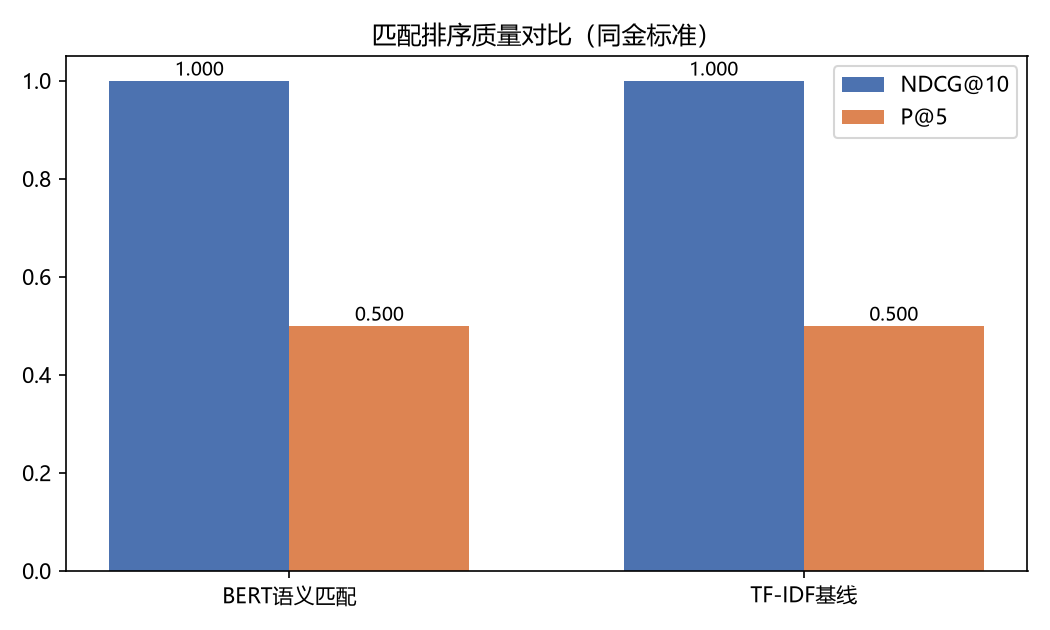
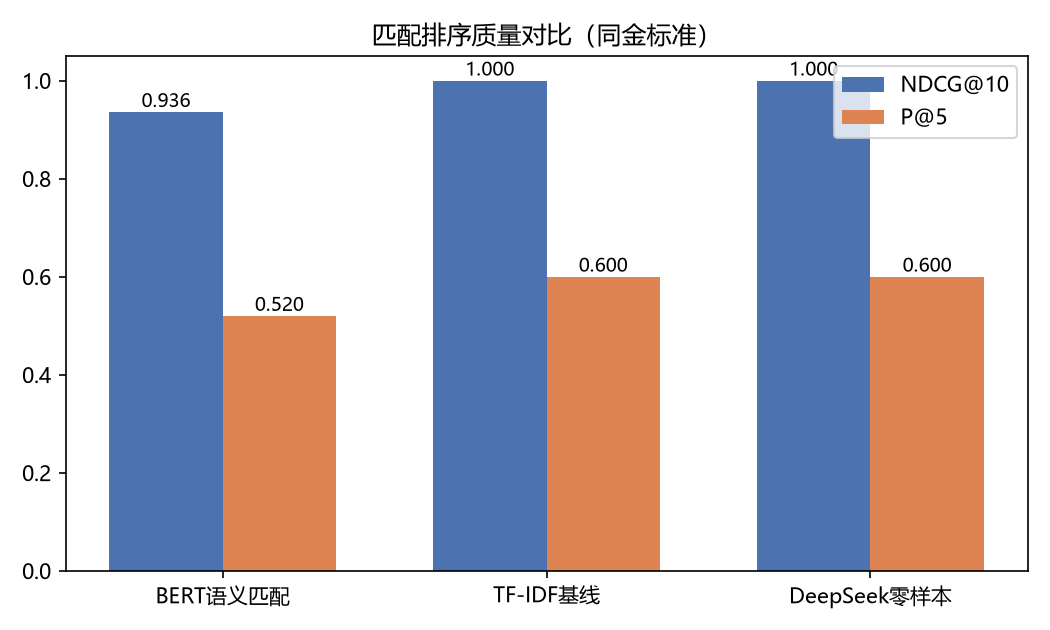
feat(M04): 真实三组对比实验跑通(DeepSeek真实调用63对0失败)
- 金标准规则升级: 剥通用职位词(工程师/开发/设计师...)后比核心语义,
  修'后端/前端开发工程师'共享'开发'误判同岗的假正例; 单测5条锁死
- scripts/seed_eval_corpus.py: 9简历×4岗位评测语料幂等灌库(63对金标准)
- fix(embedding): 权重已缓存时 local_files_only 离线加载——hub 联网探测
  在无代理环境超时导致误降级 TF-IDF(本次实验实抓); 缓存未命中才在线下载
- 实验结果(63对/5查询/15简历): BERT(未微调) NDCG@10=0.936 < TF-IDF 1.000
  = DeepSeek 1.000; 耗时 BERT 0.64s / TF-IDF 0.02s——未微调底座语义噪声
  大于词面匹配, 构成 Colab 领域微调的动机链; 产物刷新 docs/eval/
- 清理 dev 库测试残留 JD

diff --git a/backend/scripts/seed_eval_corpus.py b/backend/scripts/seed_eval_corpus.py
@@ -1,0 +1,98 @@
+"""评测语料生成：向当前业务库灌入 9 份简历 + 4 个岗位 JD（可重复执行，按文件名/标题幂等）。
+
+用途：给 M04 三组对比实验一份有区分度的演示语料（4 个 JD 查询、每 JD 2 正例）。
+用法：backend 目录下  python scripts/seed_eval_corpus.py
+"""
+import sys
+from io import BytesIO
+from pathlib import Path
+
+sys.path.insert(0, str(Path(__file__).resolve().parents[1]))
+
+from fastapi.testclient import TestClient
+
+from app.main import app
+
+RESUMES = [
+    # (文件名, [简历行]) —— 行文走规则抽取认得的显式字段格式
+    ("resume_zhangwei.docx", ["姓名：张伟", "硕士", "5年工作经验",
+                              "技能：Python FastAPI MySQL Redis Docker", "担任后端开发工程师", "任职于字节跳动科技有限公司"]),
+    ("resume_lina.docx", ["姓名：李娜", "本科", "4年工作经验",
+                          "技能：Python Django PostgreSQL Nginx", "担任后端开发工程师", "任职于美团科技有限公司"]),
+    ("resume_wangqiang.docx", ["姓名：王强", "大专", "3年工作经验",
+                               "技能：Java Spring MySQL Kafka", "担任Java开发工程师", "任职于东软集团股份有限公司"]),
+    ("resume_zhaomin.docx", ["姓名：赵敏", "本科", "3年工作经验",
+                             "技能：JavaScript React Vue Webpack", "担任前端开发工程师", "任职于腾讯科技有限公司"]),
+    ("resume_sunli.docx", ["姓名：孙丽", "本科", "2年工作经验",
+                           "技能：HTML CSS JavaScript Vite", "担任前端开发工程师", "任职于小米科技有限公司"]),
+    ("resume_zhoujie.docx", ["姓名：周杰", "硕士", "6年工作经验",
+                             "技能：Python SQL Tableau Pandas 机器学习", "担任数据分析师", "任职于招商银行"]),
+    ("resume_wujing.docx", ["姓名：吴静", "本科", "3年工作经验",
+                            "技能：Excel SQL Python 数据分析", "担任数据分析师", "任职于京东科技有限公司"]),
+    ("resume_zhengshuang.docx", ["姓名：郑爽", "大专", "2年工作经验",
+                                 "技能：Photoshop Illustrator CorelDRAW", "担任平面设计师", "任职于奥美广告有限公司"]),
+    ("resume_fenggang.docx", ["姓名：冯刚", "本科", "1年工作经验",
+                              "技能：Photoshop Sketch Figma", "担任UI设计师", "任职于字节跳动科技有限公司"]),
+]
+
+JDS = [
+    ("Python后端工程师", "负责后端服务设计与开发。要求：3年以上Python经验，熟悉FastAPI与MySQL，本科及以上，有Docker经验优先。"),
+    ("前端开发工程师", "负责Web前端页面开发。要求：2年以上经验，熟悉React或Vue，本科及以上。"),
+    ("数据分析师", "负责业务数据分析与报表。要求：熟悉SQL与Python，硕士优先。"),
+    ("平面设计师", "负责品牌与运营视觉设计。要求：精通Photoshop与Illustrator，大专及以上。"),
+]
+
+
+def make_docx(lines: list[str]) -> bytes:
+    import docx
+
+    buf = BytesIO()
+    d = docx.Document()
+    for line in lines:
+        d.add_paragraph(line)
+    d.save(buf)
+    return buf.getvalue()
+
+
+def main() -> int:
+    client = TestClient(app)
+
+    existing = {
+        r["file_name"]: r["resume_id"]
+        for r in client.get("/api/resumes?page=1&page_size=100").json()["data"]["items"]
+    }
+    jd_titles = {
+        j["title"]
+        for j in client.get("/api/jds?page=1&page_size=100").json()["data"]["items"]
+    }
+
+    for fname, lines in RESUMES:
+        if fname in existing:
+            print(f"[跳过] {fname} 已存在")
+            continue
+        r = client.post(
+            "/api/resumes/upload",
+            files={"file": (fname, make_docx(lines), "application/octet-stream")},
+        )
+        assert r.status_code == 202, r.text
+        rid = r.json()["data"]["resume_id"]
+        st = client.get(f"/api/resumes/{rid}").json()["data"]["parse_status"]
+        assert st == "done", f"{fname} 解析状态 {st}"
+        print(f"[简历] {fname} -> id={rid}")
+
+    for title, content in JDS:
+        if title in jd_titles:
+            print(f"[跳过] JD《{title}》已存在")
+            continue
+        r = client.post("/api/jds", json={"title": title, "content": content})
+        assert r.status_code == 200, r.text
+        print(f"[JD] {title} -> id={r.json()['data']['jd_id']}")
+
+    print("\n语料就绪。下一步：\n"
+          "  python tools/eval/build_gold.py\n"
+          "  python tools/run_experiments.py")
+    return 0
+
+
+if __name__ == "__main__":
+    sys.exit(main())

diff --git a/backend/tests/test_eval_metrics.py b/backend/tests/test_eval_metrics.py
@@ -2,7 +2,35 @@
 import pytest
 
 from tools.baselines.tfidf_baseline import rank_for_jds
+from tools.eval.build_gold import _core, _positive
 from tools.eval.metrics import ndcg_at_k, precision_at_k
+
+
+class TestGoldPositive:
+    """金标准正样本判定：剥通用词后比核心语义，防'后端/前端'共享'开发'误判同岗"""
+
+    def test_core_strips_generic(self):
+        assert _core("后端开发工程师") == "后端"
+        assert _core("前端开发工程师") == "前端"
+        assert _core("数据分析师") == "数据"
+        assert _core("平面设计师") == "平面"
+        assert _core("Python后端工程师") == "python后端"  # 保留技能词，剥职位通用词
+
+    def test_backend_not_frontend(self):
+        assert not _positive("前端开发工程师", ["后端开发工程师"])
+        assert not _positive("Python后端工程师", ["前端开发工程师"])
+
+    def test_backend_matches(self):
+        assert _positive("Python后端工程师", ["后端开发工程师"])
+        assert _positive("Python后端工程师", ["Python后端开发"])
+
+    def test_designer_vs_data(self):
+        assert not _positive("数据分析师", ["平面设计师"])
+        assert _positive("数据分析师", ["数据分析师", "数据分析专员"])
+
+    def test_fallback_bigram_when_all_generic(self):
+        # 全是通用词时回退原文 bigram（如 title 就是"开发"）
+        assert _positive("开发工程师", ["开发"])
 
 
 class TestNdcg:

diff --git a/backend/tools/eval/build_gold.py b/backend/tools/eval/build_gold.py
@@ -37,13 +37,31 @@ def _title_map() -> tuple[dict[int, list[str]], dict[int, str]]:
     return titles, jds
 
 
+# 通用职位后缀词：剥离后再比对，避免"后端开发工程师/前端开发工程师"因
+# 共享"开发"被误判同岗（长词先剥）
+_GENERIC_TOKENS = ["工程师", "分析师", "设计师", "架构师", "开发", "专员", "经理", "助理", "主管", "总监"]
+
+
+def _core(title: str) -> str:
+    """剥离通用后缀词后的核心语义（如 后端开发工程师→后端、数据分析师→数据）"""
+    t = title.lower().strip()
+    for tok in _GENERIC_TOKENS:
+        t = t.replace(tok, "")
+    return t.strip()
+
+
 def _positive(jd_title: str, resume_titles: list[str]) -> bool:
-    """JD 标题与简历期望岗位共享 ≥2 字连续子串即视为匹配（课程级近似，人工抽检兜底）"""
+    """核心语义互含或共享 ≥2 字连续子串即视为匹配（课程级近似，人工抽检兜底）"""
+    jc = _core(jd_title)
     jt = jd_title.lower()
     for t in resume_titles:
         t = t.lower()
-        for i in range(len(t) - 1):
-            if t[i : i + 2] in jt:
+        rc = _core(t)
+        # 核心互含（"后端" ⊂ "Python后端"）优先；退化为原文字 bigram
+        if rc and jc and (rc in jc or jc in rc):
+            return True
+        for i in range(len(rc or t) - 1):
+            if (rc or t)[i : i + 2] in (jc or jt):
                 return True
     return False
 

diff --git a/backend/app/svc/embedding.py b/backend/app/svc/embedding.py
@@ -36,8 +36,14 @@ class _BertEncoder:
         import torch
 
         self._torch = torch
-        self.tokenizer = AutoTokenizer.from_pretrained(_BERT_MODEL)
-        self.model = AutoModel.from_pretrained(_BERT_MODEL)
+        # 权重已在本地缓存时强制离线加载——运行时本就全本地，联网探测
+        # 在无代理环境会拖到超时（曾致误降级 TF-IDF）；缓存未命中才走网络下载
+        try:
+            self.tokenizer = AutoTokenizer.from_pretrained(_BERT_MODEL, local_files_only=True)
+            self.model = AutoModel.from_pretrained(_BERT_MODEL, local_files_only=True)
+        except OSError:
+            self.tokenizer = AutoTokenizer.from_pretrained(_BERT_MODEL)
+            self.model = AutoModel.from_pretrained(_BERT_MODEL)
         self.model.eval()
 
     def encode(self, texts: list[str], batch_size: int = 16) -> np.ndarray:
